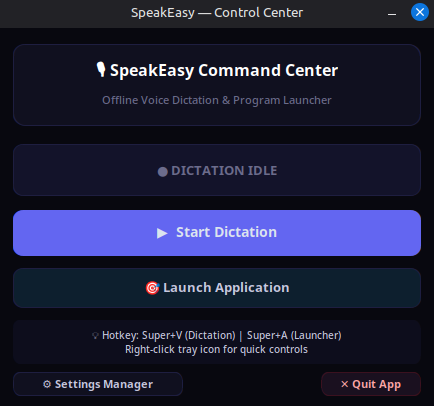
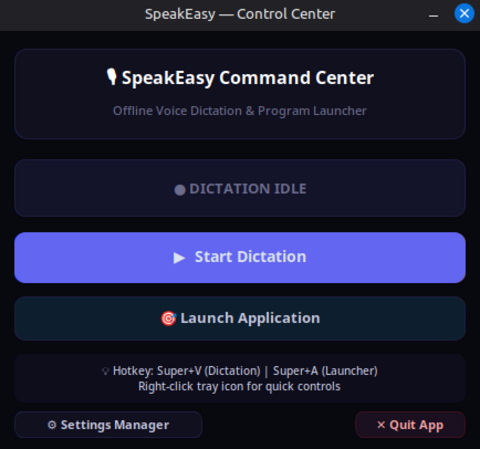
Resize and center Control Center screenshot in documentation

diff --git a/README.md b/README.md
@@ -17,9 +17,9 @@ It provides two complementary tools:
 
 The project started because I was using a Pentium Silver N6000 laptop after my main machine died. I wanted voice input, but the solutions I found either depended on cloud services, wanted a dedicated GPU, or were expensive. SpeakEasy is my attempt to make useful voice control practical on modest Linux hardware.
 
-![SpeakEasy Settings GUI](assets/SpeakEasy_Settings.png)
+<p align="center"><img src="assets/SpeakEasy_Settings.png" width="480" alt="SpeakEasy Settings GUI"></p>
 
-![SpeakEasy Control Center](assets/SpeakEasy_Control_Center.png)
+<p align="center"><img src="assets/SpeakEasy_Control_Center.png" width="480" alt="SpeakEasy Control Center"></p>
 
 ## What Makes SpeakEasy Unique
 

diff --git a/USAGE.md b/USAGE.md
@@ -23,7 +23,7 @@ cd SpeakEasy
 
 ## Control Center GUI
 
-![SpeakEasy Control Center](assets/SpeakEasy_Control_Center.png)
+<p align="center"><img src="assets/SpeakEasy_Control_Center.png" width="480" alt="SpeakEasy Control Center"></p>
 
 When you launch SpeakEasy, you'll see a dark indigo window with:
 
@@ -99,7 +99,7 @@ Click **🎯 Launch Applications** in the Control Center, or press Super+A (if s
 
 ## Settings Manager
 
-![SpeakEasy Settings GUI](assets/SpeakEasy_Settings.png)
+<p align="center"><img src="assets/SpeakEasy_Settings.png" width="480" alt="SpeakEasy Settings GUI"></p>
 
 Click **⚙ Settings Manager** in the Control Center.
 
